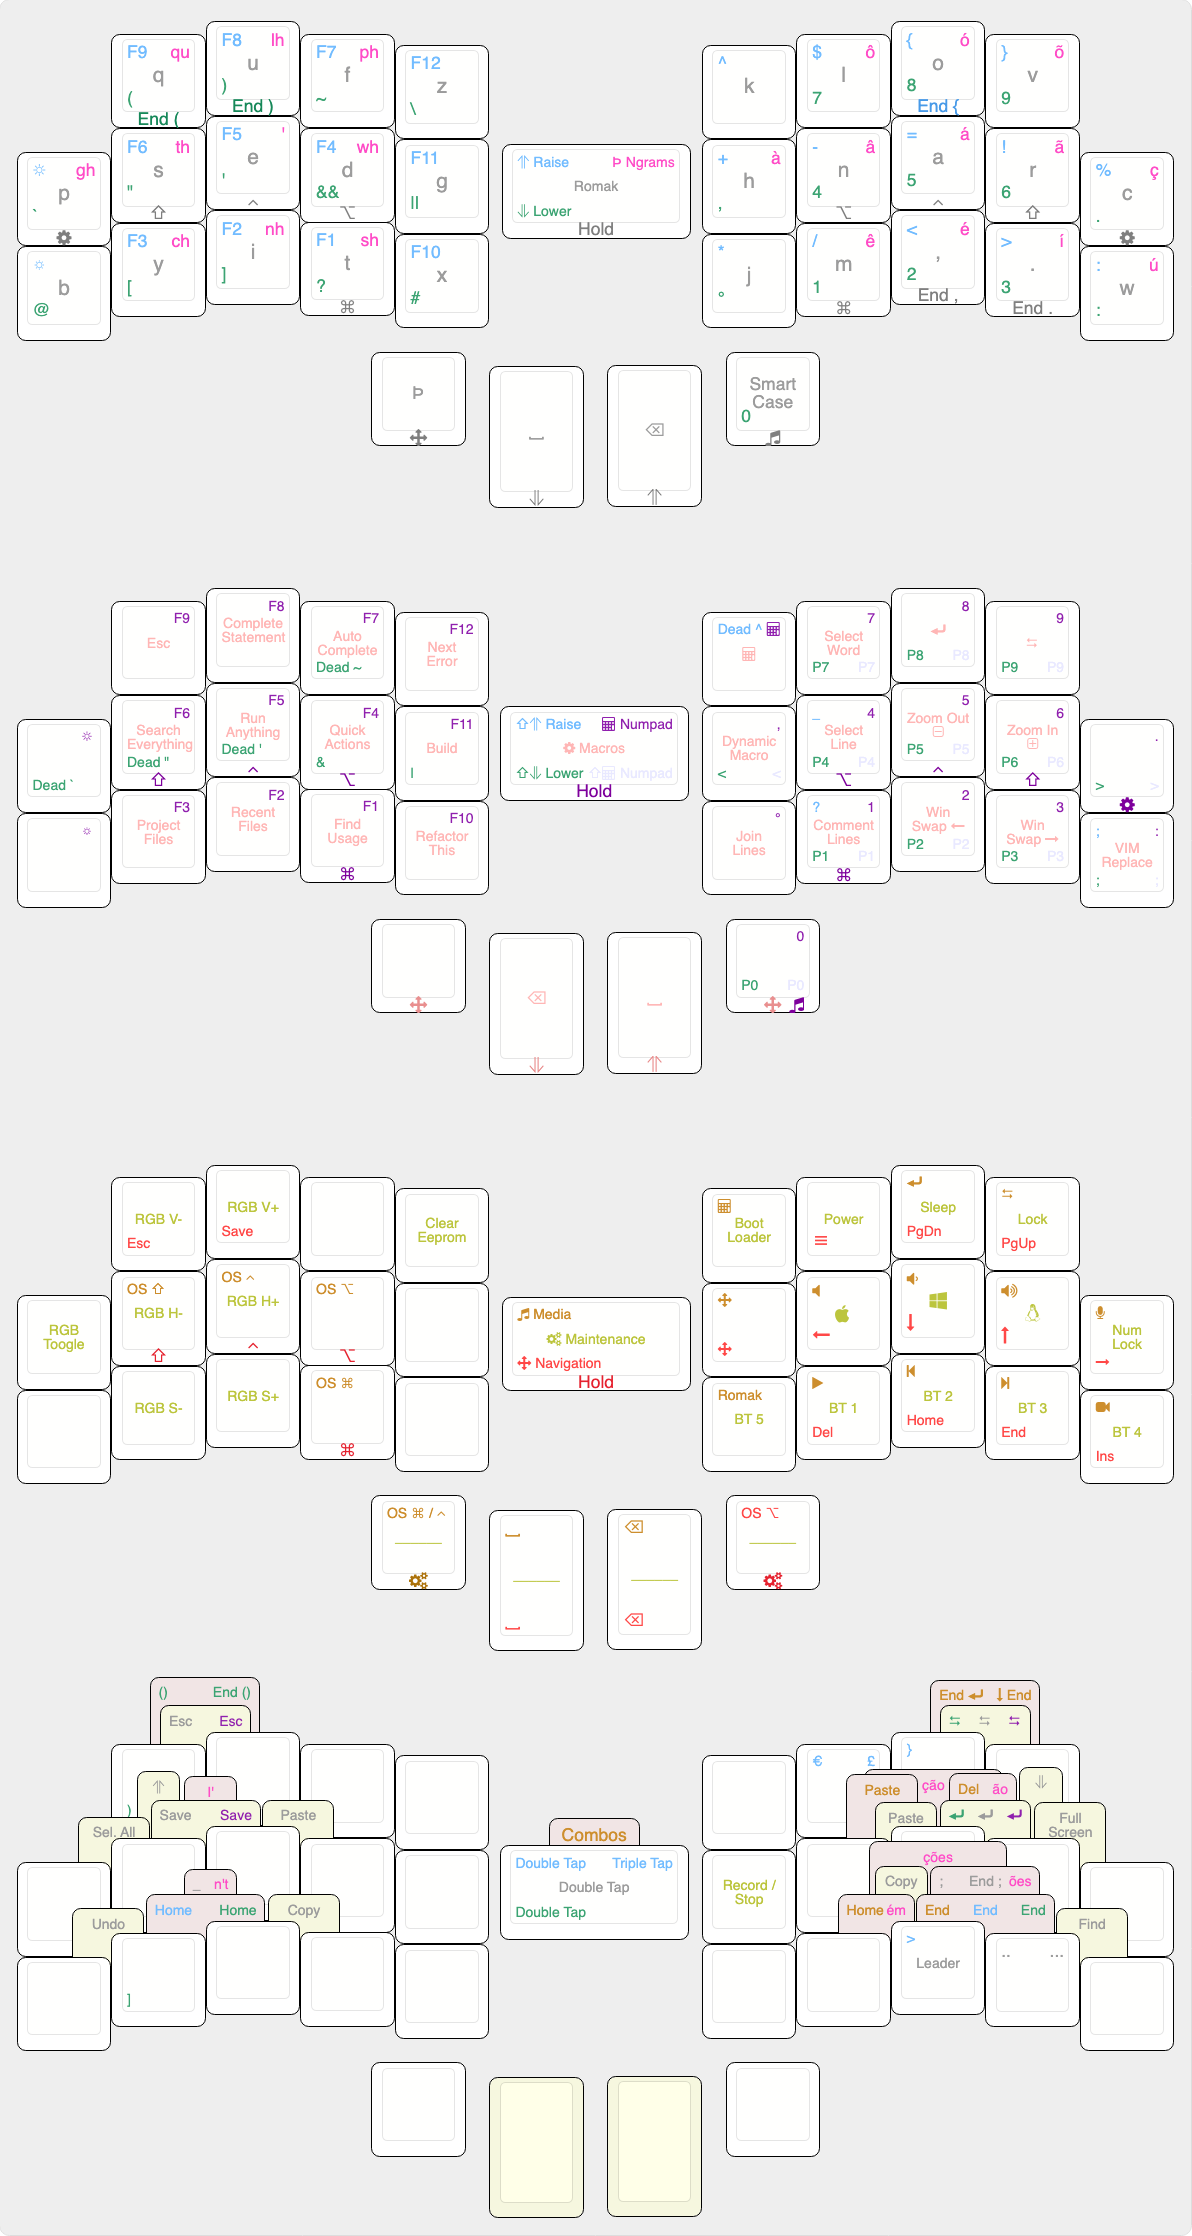
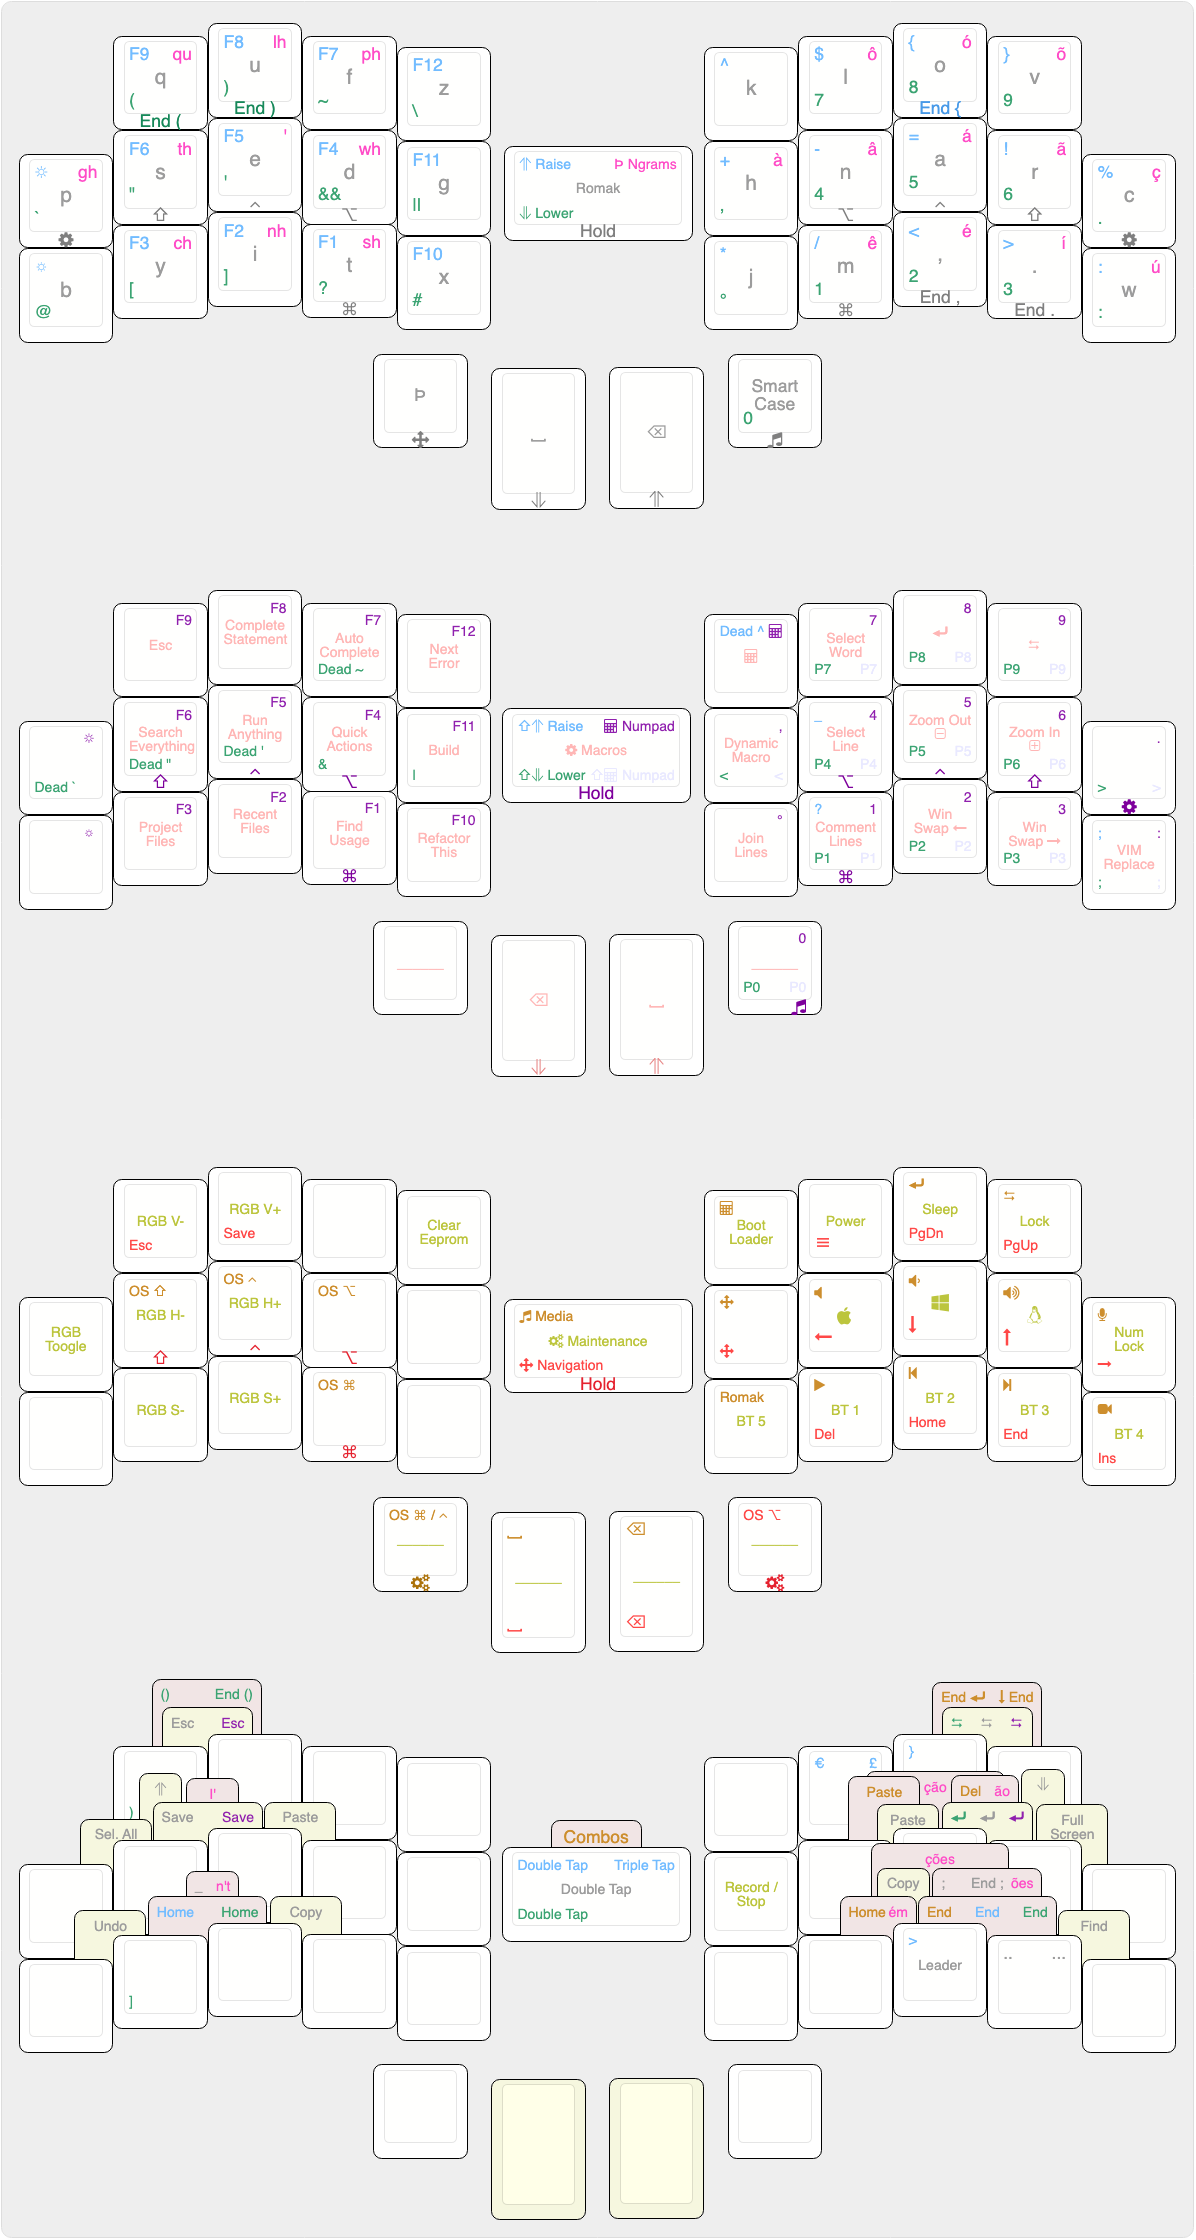
simplify access to nav layer

diff --git a/src/qmk/users/rafaelromao/definitions/keymap_blocks.h b/src/qmk/users/rafaelromao/definitions/keymap_blocks.h
@@ -38,12 +38,12 @@
 #define ___________________MACROS_L1___________________ XXXXXXX , KC_ESC  , MC_COMP , MC_AUCO , MC_NEER
 #define ___________________MACROS_L2___________________ XXXXXXX , MC_SEEV , MC_RUAN , MC_QUIK , MC_BUID
 #define ___________________MACROS_L3___________________ XXXXXXX , MC_PROJ , MC_REFI , MC_FIUS , MC_REFC
-#define ____MACROS_L4____                                                             MO_NAV  , LOW_BSP
+#define ____MACROS_L4____                                                             _______ , LOW_BSP
 
 #define ___________________MACROS_R1___________________ TG_NUM  , MC_SELW , KC_ENT  , KC_TAB  , XXXXXXX
 #define ___________________MACROS_R2___________________ TD_MACR , MC_SELL , MC_MODM , MC_MODP , XXXXXXX
 #define ___________________MACROS_R3___________________ MC_JOIN , MC_COMT , MC_SWLE , MC_SWRI , MC_VIMR
-#define ____MACROS_R4____                               RAI_SPC , MO_NAV
+#define ____MACROS_R4____                               RAI_SPC , _______
 
 #define ___________________LOWER_L1____________________ XXXXXXX , TD_OPAR , TD_CPAR , MC_TILD , KC_BSLS
 #define ___________________LOWER_L2____________________ MC_BTIC , MC_DQUO , MC_SQUO , MC_DAND , MC_DPIP

diff --git a/src/qmk/users/rafaelromao/definitions/keycodes.h b/src/qmk/users/rafaelromao/definitions/keycodes.h
@@ -147,7 +147,6 @@ enum {
 // Layer transitions
 #define MO_LOW MO(_LOWER)
 #define MO_RAI MO(_RAISE)
-#define MO_NAV MO(_NAVIGATION)
 #define MO_MED MO(_MEDIA)
 #define TO_ROM TO(_ROMAK)
 #define TG_NUM TG(_NUMPAD)
